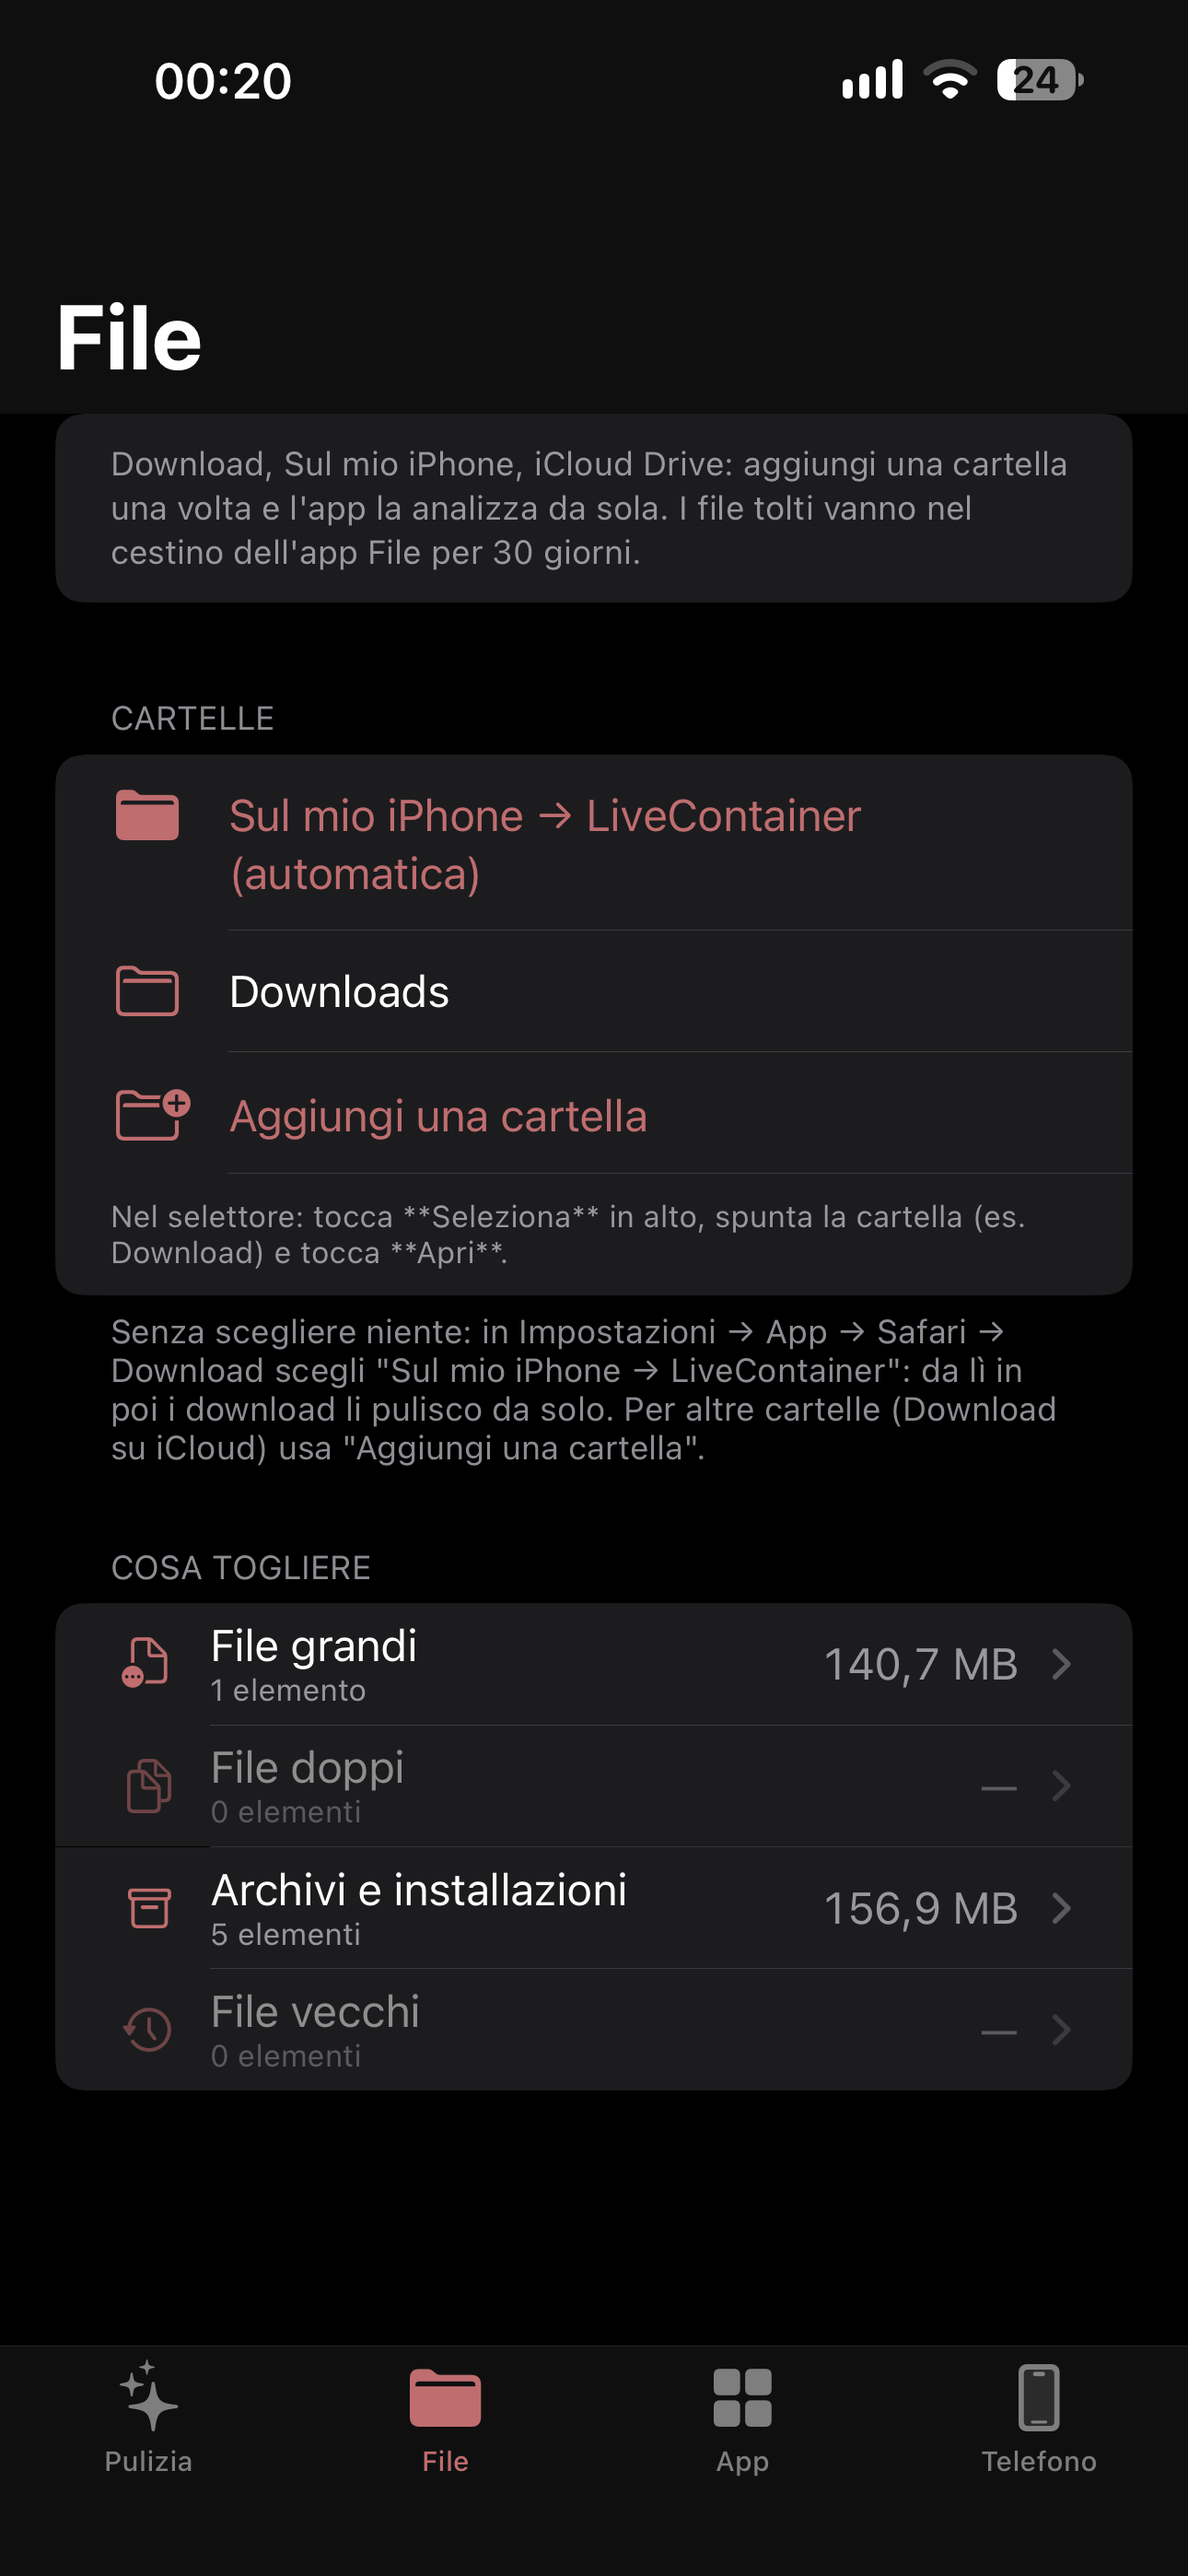
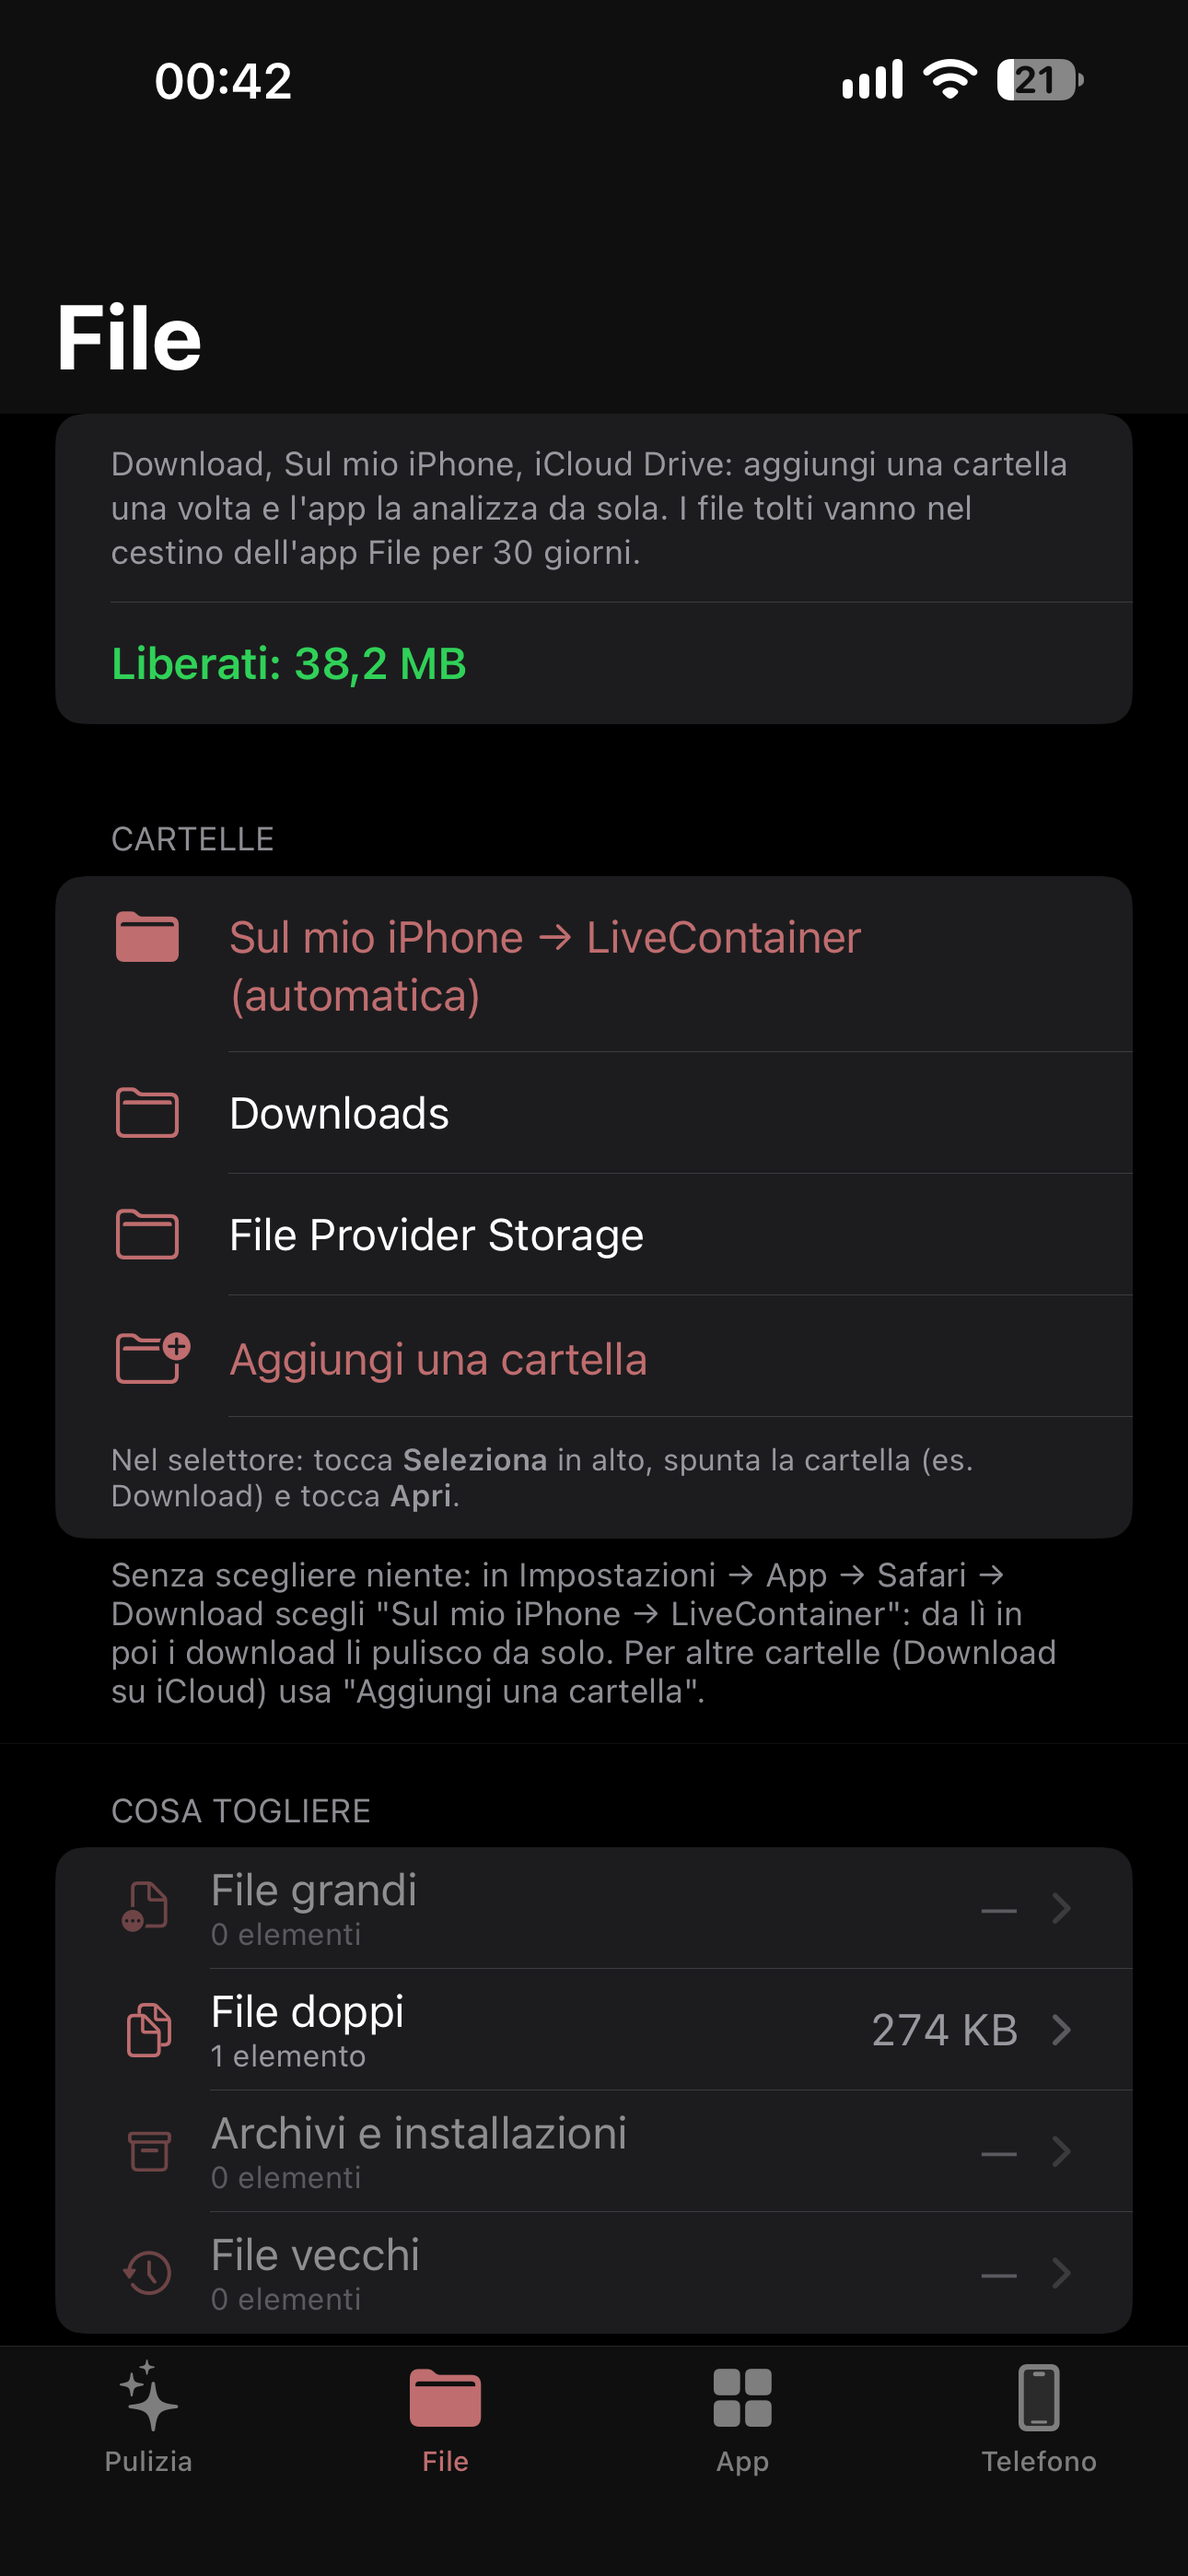
Schermate della 1.8.6 (scheda File) [skip ci]
Claude-Session: https://claude.ai/code/session_01G42q2Z4XHv6LnjWvVethDh

diff --git a/CHANGELOG.md b/CHANGELOG.md
@@ -1,6 +1,8 @@
 # Changelog — FMLAB Cleaner
 
 ## 1.8.6
+*Provata sull'iPhone: file tolti davvero (38,2 MB liberati), grassetto a posto.*
+
 - **Scheda File: "Sposta nel cestino" ora toglie davvero i file.** Dentro LiveContainer il coordinatore di file di
   iOS non rispondeva e i file restavano dov'erano senza nessun messaggio. Ora l'app prova prima direttamente
   (cestino di File, altrimenti eliminazione), e il coordinatore resta come ultima via con un limite di 8 secondi.
